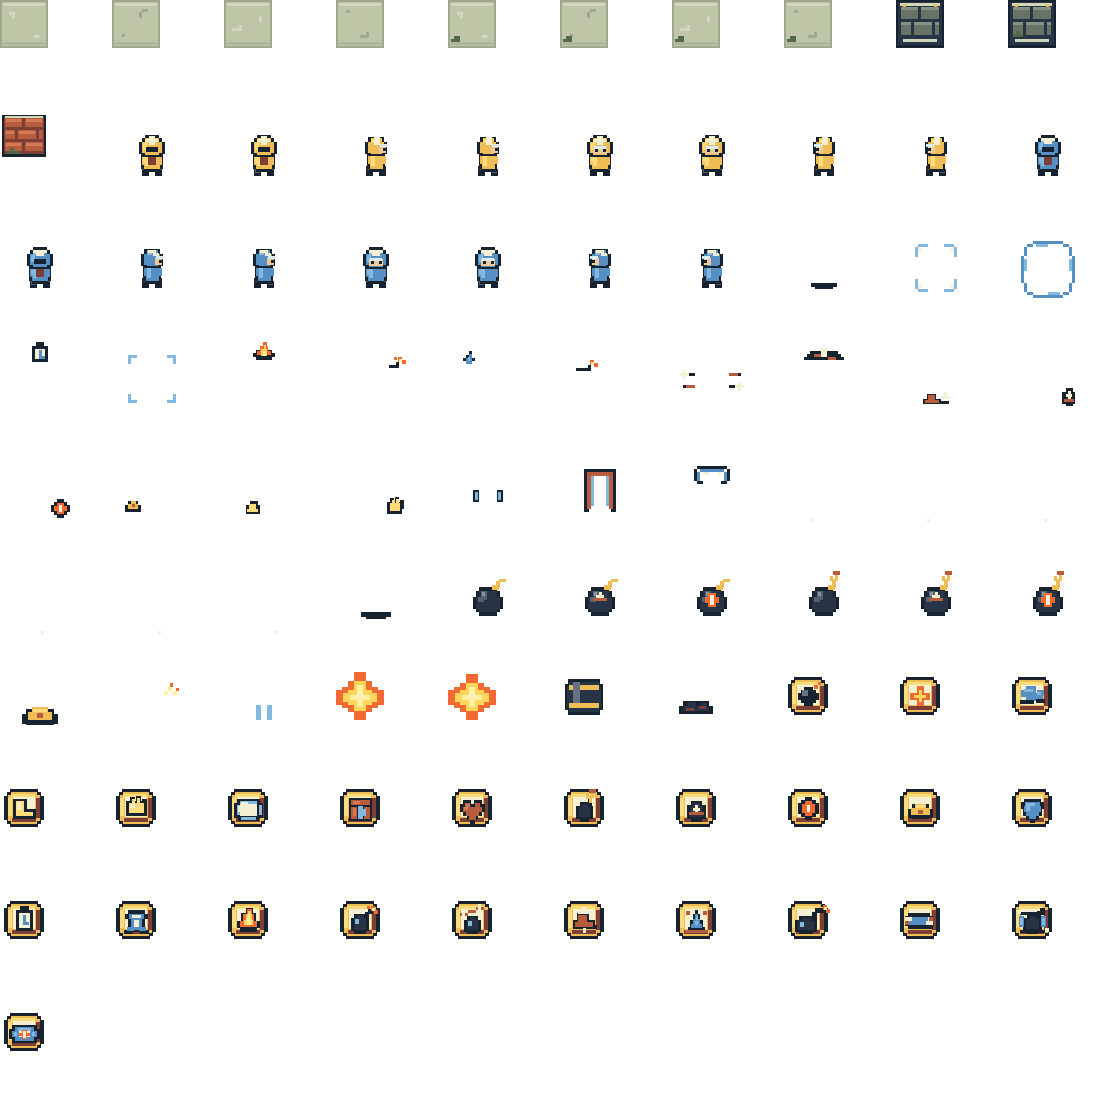
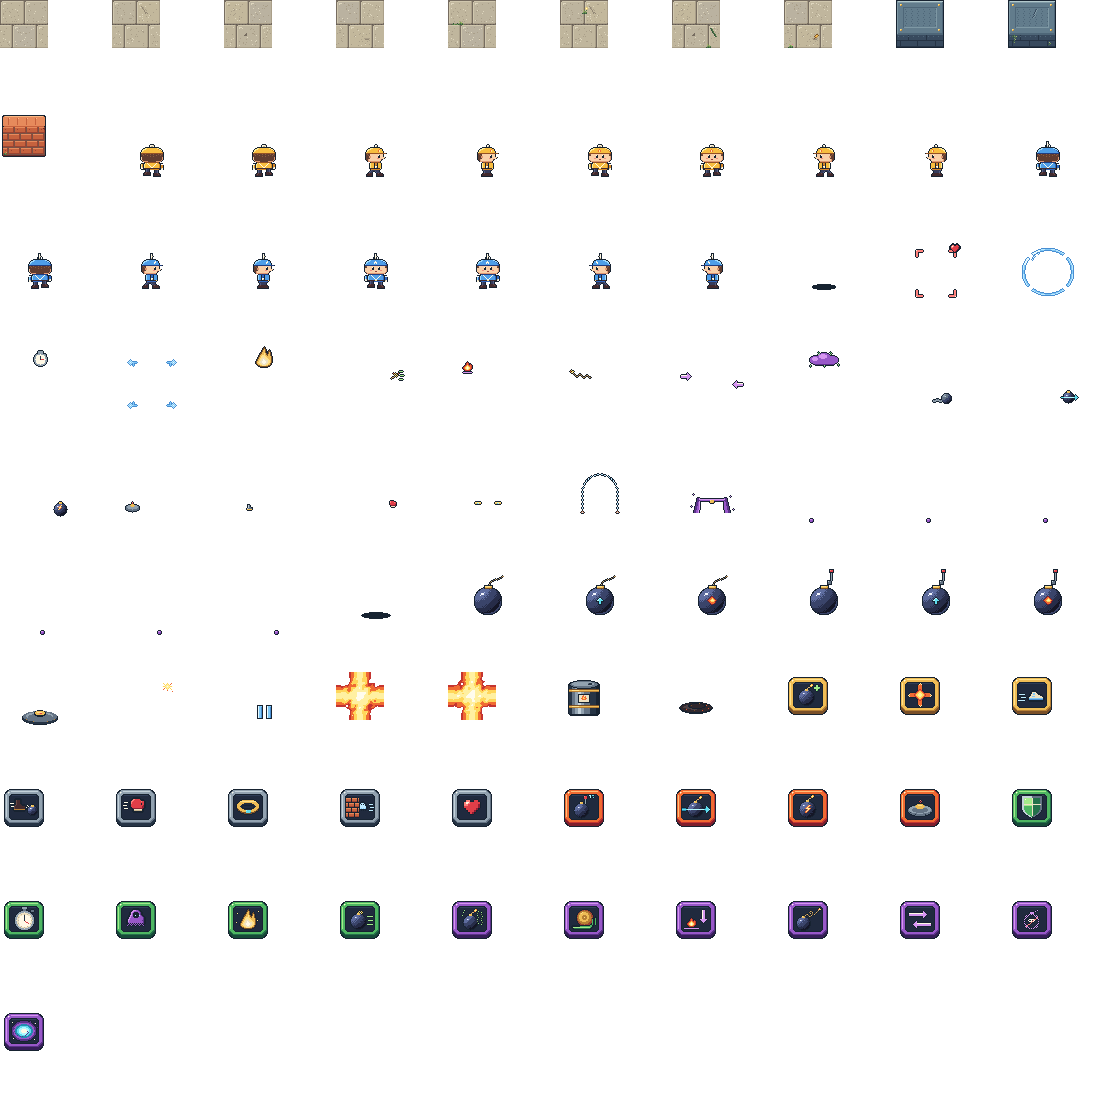
feat(art): adopt redrawn arena sprite sheet (#123)
Replace assets/art/arena-source.png with a full AI-generated redraw:
chibi-proportioned actors with pompom/feather caps and flame/star marks,
new terrain, bombs, gap-free flames, Oil, pickups and status cues. The
manifest, frame rectangles, pivots, foot anchors, binary alpha, Oil
colour anchors and texture budget are unchanged.

Atlas gameplay parity now packs the procedural baseline sheet through the
production atlas pipeline (createArenaAtlas) instead of the shipped PNG,
so artist redraws no longer break its pixel expectations; the
production-renderer lifecycle checks still load the bundled source.

Record the redraw's provenance and update the rendering, testing,
backlog and browser docs and the changelog.

diff --git a/web/src/game/arena/artAtlas/load.ts b/web/src/game/arena/artAtlas/load.ts
@@ -3,20 +3,25 @@ import sourceManifestJson from '../../../../../assets/art/arena-source.json'
 import { pixelCanvas, decodePng, packRuntimePixels } from './pixels'
 import { createAtlasRegions, type AtlasRegions } from './regions'
 import { buildRuntimeManifest } from './runtime'
-import type { ArtManifest } from './types'
+import type { ArtManifest, PixelBuffer } from './types'
 import { assertValidRuntimeManifest, assertValidSourceManifest } from './validate'
 
-const sourceManifest = sourceManifestJson as ArtManifest
+export const arenaSourceManifest = sourceManifestJson as ArtManifest
 const sourceUrl = new URL('../../../../../assets/art/arena-source.png', import.meta.url)
 
 export async function loadArenaAtlas(): Promise<AtlasRegions> {
-  assertValidSourceManifest(sourceManifest)
+  assertValidSourceManifest(arenaSourceManifest)
   const response = await fetch(sourceUrl)
   if (!response.ok) throw new Error(`Arena artwork failed to load (${response.status})`)
-  const sourcePixels = await decodePng(new Uint8Array(await response.arrayBuffer()), sourceManifest)
-  assertValidSourceManifest(sourceManifest, sourcePixels)
-  const runtimeManifest = buildRuntimeManifest(sourceManifest)
-  const runtimePixels = packRuntimePixels(sourcePixels, sourceManifest, runtimeManifest)
+  return createArenaAtlas(
+    await decodePng(new Uint8Array(await response.arrayBuffer()), arenaSourceManifest),
+  )
+}
+
+export function createArenaAtlas(sourcePixels: PixelBuffer): AtlasRegions {
+  assertValidSourceManifest(arenaSourceManifest, sourcePixels)
+  const runtimeManifest = buildRuntimeManifest(arenaSourceManifest)
+  const runtimePixels = packRuntimePixels(sourcePixels, arenaSourceManifest, runtimeManifest)
   assertValidRuntimeManifest(runtimeManifest, runtimePixels)
   const source = new CanvasSource({
     resource: pixelCanvas(runtimePixels),

diff --git a/web/renderer-diagnostics/atlas-gameplay.ts b/web/renderer-diagnostics/atlas-gameplay.ts
@@ -2,13 +2,14 @@ import '../src/game/arena/pixiCompatibility'
 import { Application, Container, Sprite } from 'pixi.js'
 import type { ActorDrawing } from '../src/game/arena/actorArt'
 import { createAtlasArtwork } from '../src/game/arena/artAtlas/artwork'
-import { loadArenaAtlas } from '../src/game/arena/artAtlas/load'
+import { arenaSourceManifest, createArenaAtlas } from '../src/game/arena/artAtlas/load'
 import type { ArenaArtwork } from '../src/game/arena/artwork'
 import { GROUND, TILE } from '../src/game/arena/drawing'
 import { graphicsArtwork } from '../src/game/arena/graphicsArtwork'
 import { createArenaRenderer, type ArenaRenderer } from '../src/game/arena/renderer'
 import { ArenaScene } from '../src/game/arena/scene'
 import type { SnapshotMessage } from '../src/game/arena/types'
+import { renderBaselineSource } from './art-atlas-render'
 import { diagnosticSnapshot } from './snapshot'
 
 type Pixels = { pixels: Uint8Array | Uint8ClampedArray; width: number; height: number }
@@ -191,7 +192,9 @@ async function run(): Promise<AtlasGameplayResult> {
     autoStart: false, resolution, powerPreference: 'low-power',
   })
   document.body.appendChild(app.canvas)
-  const regions = await loadArenaAtlas()
+  // Parity packs the procedural baseline, so it checks the atlas pipeline independently of the
+  // adopted artist pixels; the renderer lifecycle below still loads the bundled source.
+  const regions = createArenaAtlas(await renderBaselineSource(arenaSourceManifest))
   const atlas = new ArenaScene(resolution, createAtlasArtwork(regions))
   const graphics = new ArenaScene(resolution, normalizedGraphicsArtwork())
   const historicalGraphics = new ArenaScene(resolution, graphicsArtwork)

diff --git a/web/src/game/arena/artAtlas/load.test.ts b/web/src/game/arena/artAtlas/load.test.ts
@@ -30,7 +30,7 @@ vi.mock('./validate', () => ({
   assertValidSourceManifest: mocks.assertValidSourceManifest,
 }))
 
-import { loadArenaAtlas } from './load'
+import { createArenaAtlas, loadArenaAtlas } from './load'
 
 const sourcePixels = { width: 1120, height: 1120, data: new Uint8Array() }
 const runtimePixels = { width: 2040, height: 320, data: new Uint8Array() }
@@ -74,5 +74,15 @@ describe('arena atlas loading', () => {
     await expect(loadArenaAtlas()).resolves.toBeDefined()
     expect(mocks.sources).toHaveLength(2)
     expect(mocks.sources[1]?.destroyed).toBe(false)
+  })
+
+  it('packs supplied source pixels without fetching the bundled artwork', () => {
+    const regions = createArenaAtlas(sourcePixels)
+
+    expect(regions).toEqual({ source: mocks.sources[0] })
+    expect(fetch).not.toHaveBeenCalled()
+    expect(mocks.decodePng).not.toHaveBeenCalled()
+    expect(mocks.assertValidSourceManifest).toHaveBeenCalledWith(expect.anything(), sourcePixels)
+    expect(mocks.packRuntimePixels.mock.calls[0]?.[0]).toBe(sourcePixels)
   })
 })

diff --git a/docs/game/backlog.md b/docs/game/backlog.md
@@ -5,7 +5,8 @@ completes **all 22 requested item types**, including Oil Barrel. Full checks, sc
 Compose/Kubernetes acceptance, publication and localhost promotion are complete. ART-ATLAS is
 shipped: [v0.3.48](https://github.com/liveweird/grenadiers/releases/tag/v0.3.48) publishes
 the artist handoff/export/preview. Published [v0.3.49](https://github.com/liveweird/grenadiers/releases/tag/v0.3.49)
-adopts the atlas in gameplay and is promoted locally. Artist redraws remain separate ART work.
+adopts the atlas in gameplay and is promoted locally. The unreleased v0.3.53 sheet is a full
+AI-generated redraw ([provenance](../../assets/art/README.md#provenance)).
 
 [v0.3.43](https://github.com/liveweird/grenadiers/releases/tag/v0.3.43) publishes Wall Pass as the
 eighteenth of 22 requested item types. Published source `c086f719ea470b9fe24963adef84b5e3bdf3e17a`,
@@ -221,8 +222,8 @@ The entire expanded-item batch shipped in v0.3.47. ART-ATLAS is split into two b
 - **v0.3.49 (published):** adopt the reviewed runtime atlas in gameplay, preserving terrain cache behavior,
   animation timing, visibility, collision geometry, ownership and current rendering budgets.
 
-The existing code-generated PixiJS art remains the baseline. New artist redraws and new animation
-production follow review of this complete inventory and representative arena proof.
+The code-generated PixiJS art remains the template and parity baseline. The unreleased v0.3.53
+redraw replaces the adopted sheet; new animation production follows review of the inventory.
 
 - Export the current drawings into a labelled visual inventory, including terrain variants,
   directional player frames, bombs, connected flames, pickups and status overlays. Reserve
@@ -243,8 +244,8 @@ production follow review of this complete inventory and representative arena pro
   geometry, authoritative visibility, hazard readability, player distinctions and EN/PL UI.
 
 Published v0.3.48 implements the template/export/preview portion above. Gameplay integration shipped in v0.3.49;
-artist redraws remain open. The faithful baseline retains a known two-pixel vertical gap in
-flame frame 1; the guide calls it out explicitly rather than claiming seamless replacement art.
+the unreleased v0.3.53 redraw replaces the adopted sheet. The procedural template still retains a
+known two-pixel vertical gap in flame frame 1; the redrawn flame frames are gap-free.
 
 ## EFFECTS: inventory and status foundations
 
@@ -334,4 +335,4 @@ including same-image Compose/Kubernetes acceptance. Bots, mobs and larger matche
 separate tracks; their future interactions must be specified without making them prerequisites.
 
 The expanded-item activation batch and its release gates are complete in v0.3.47. ART-ATLAS
-is delivered by the published v0.3.48/v0.3.49 releases; artist redraws follow sample review.
+is delivered by the published v0.3.48/v0.3.49 releases; the v0.3.53 redraw is unreleased.

diff --git a/assets/art/README.md b/assets/art/README.md
@@ -75,9 +75,9 @@ target after review.
   -localBounds.y)`. All 16 directional actor poses retain the shared `(40, 65)` foot anchor.
 - Keep IDs path-safe and stable. The exporter rejects missing, duplicate, unexpected or path-like
   IDs, changed required animations, invalid dimensions and texture-budget overflow.
-- The existing baseline `effect.flame.1` has a vertical two-pixel gap. The template, adjacent-flame
-  proof and runtime export preserve it faithfully; v0.3.48 does not claim that baseline frame is
-  already seamless. An artist may correct it in the canonical editable PNG.
+- Flame frames must reach all four edges so adjacent rays join. The procedural template's
+  `effect.flame.1` keeps its historical vertical two-pixel gap; the adopted v0.3.53 source fills a
+  continuous 22-pixel band on every edge of both frames.
 
 Use the standalone `art-atlas.html` renderer diagnostic to load a source PNG and manifest, inspect
 all labelled drawings, and see the representative arena rebuilt from actual Pixi atlas regions.
@@ -86,9 +86,16 @@ and adjacent flames. It is not linked from the gameplay or product flow.
 
 ## Provenance
 
-The v0.3.48 baseline is rendered at resolution 1 from Grenadiers' existing code-generated Pixi
-factories in `web/src/game/arena/`. No AI-generated art, external artwork, external font download
-or new visual style is introduced by this handoff. The generated guide and preview files derive
-from those same repository sources. Record the author, tool and license/provenance of future
-artist revisions alongside the adopted source; repository licensing remains authoritative for
-distribution.
+The adopted v0.3.53 source is a full redraw (terrain, actors, bombs, flames, Oil, pickups and
+status cues) and is AI-generated: Claude (Anthropic, via Claude Code) wrote a procedural
+Python/Pillow script that painted every frame, directed and reviewed by the repository owner.
+It keeps the v0.3.48 manifest unchanged, every frame rectangle, pivot and anchor, binary alpha and
+the Oil colour anchors. It contains no external artwork, franchise sprites or downloaded fonts;
+repository licensing applies. The generating script is not committed; edit the PNG directly.
+
+The v0.3.48 baseline, still produced by `art:template`, is rendered at resolution 1 from
+Grenadiers' existing code-generated Pixi factories in `web/src/game/arena/`; it introduced no
+AI-generated art, external artwork, external font download or new visual style. The generated
+guide and preview files derive from those same repository sources. Record the author, tool and
+license/provenance of future artist revisions alongside the adopted source; repository licensing
+remains authoritative for distribution.

diff --git a/docs/game/art-atlas.md b/docs/game/art-atlas.md
@@ -31,20 +31,26 @@ reuses that source and refreshes the terrain cache. Failed initialization follow
 localized renderer-error flow rather than substituting different artwork.
 
 Procedural drawings remain available for template extraction and reference comparisons.
-This release adopts the baseline artwork, with one explicit compositing change: status pulses
+v0.3.53 replaces the adopted source with a redrawn, AI-generated sheet (chibi-proportioned
+actors, new terrain, bombs, flames, pickups and cues; see the
+[provenance](../../assets/art/README.md#provenance)). The manifest, frame rectangles, pivots,
+foot anchors and texture budget are unchanged, so gameplay positions and collisions do not move.
+v0.3.49 adopted the baseline artwork, with one explicit compositing change: status pulses
 fade each completed icon once. The old procedural renderer faded every overlapping paint
 stroke separately, exposing underlying colors during a pulse. A flat artist PNG retains the
 finished icon rather than those hidden strokes. Pulse timing and status visibility stay shared;
-this normalization affects only those decorative overlap pixels. The documented flame-frame
-gap and future artist redesign remain separate visual changes.
+this normalization affects only those decorative overlap pixels.
 
 ## Verification
 
 Run `scripts/gates.sh web`, `scripts/gates.sh e2e`, `scripts/gates.sh art-atlas` and
 `scripts/gates.sh atlas-gameplay`. The last command builds the diagnostics target and runs real
-Pixi/WebGL comparisons, including a flattened-opaque reference for pulsing icons and separately
-reported differences from the historical per-stroke reference. Keep the required Playwright Chromium installation for browser checks;
-`scripts/gates.sh all` retains its existing source/static scope.
+Pixi/WebGL comparisons. Its parity scenes pack the procedural baseline sheet through the same
+atlas pipeline, so they verify the renderer independently of the adopted artist pixels; its
+production-renderer lifecycle checks load the bundled source. Comparisons include a
+flattened-opaque reference for pulsing icons and separately reported differences from the
+historical per-stroke reference. Keep the required Playwright Chromium installation for browser
+checks; `scripts/gates.sh all` retains its existing source/static scope.
 
 Before release, also exercise the production image through two-player gameplay and privacy
 scenarios, desktop/320px reduced-motion captures, context restoration and measured rendering

diff --git a/docs/testing.md b/docs/testing.md
@@ -60,10 +60,12 @@ invalid sources, concurrent operations, context restoration, one live preview, t
 EN/PL errors and desktop/320px reduced-motion layouts. Core unit tests cover frame inventory,
 metadata, every extrusion edge/corner, padding, gutters, transparency and texture disposal.
 Generated browser proofs live under ignored `e2e/.playwright/art-atlas-test-results/`. The
-[artist handoff](../assets/art/README.md) documents template/export commands. The dedicated `scripts/gates.sh atlas-gameplay` checks the v0.3.49 gameplay backend against
-procedural reference pixels and real WebGL lifecycle behavior. It uses the same fresh diagnostics
-build and stores proofs in `e2e/.playwright/atlas-gameplay-test-results/`. See the
-[rendering guide](game/art-atlas.md). Artist redraws remain separate from renderer adoption.
+[artist handoff](../assets/art/README.md) documents template/export commands. The dedicated
+`scripts/gates.sh atlas-gameplay` checks the gameplay atlas backend against procedural reference
+pixels, by packing the procedural baseline sheet rather than the adopted artist source, and real
+WebGL lifecycle behavior with the bundled source. It uses the same fresh diagnostics build and
+stores proofs in `e2e/.playwright/atlas-gameplay-test-results/`. See the
+[rendering guide](game/art-atlas.md). Artist redraws therefore change no parity expectation.
 
 ## Rust
 

diff --git a/e2e/scenarios/atlas-gameplay.md b/e2e/scenarios/atlas-gameplay.md
@@ -2,10 +2,11 @@
 
 ## Scenario: atlas gameplay matches procedural pixels and retains renderer resources through lifecycle changes
 
-The isolated actual-WebGL fixture compares production atlas scene pixels with the procedural
-reference at device pixel ratios one and two. It covers fractional interpolation, the actor,
+The isolated actual-WebGL fixture packs the procedural baseline sheet through the production atlas
+pipeline and compares those scene pixels with the procedural reference at device pixel ratios one
+and two, independently of the adopted artist source. It covers fractional interpolation, the actor,
 bomb, Flame and Oil animation phases, reduced motion, a result with a hidden actor, changed
-terrain, reset, and context restoration. The same run initializes
-the production renderer, retains one canvas and atlas across suspend/resume and reduced-motion
+terrain, reset, and context restoration. The same run initializes the production renderer with
+the bundled artist source, retains one canvas and atlas across suspend/resume and reduced-motion
 changes, restores its context, measures cold startup and a bounded retained-frame sample, and
 releases each comparison and production texture owner on final destruction.

diff --git a/docs/game/pixel-art.md b/docs/game/pixel-art.md
@@ -49,6 +49,10 @@ renderer during mounted room/reconnect transitions, suspending its ticker and cl
 artwork while waiting. A new baseline is painted before the canvas becomes visible again.
 Actual component unmount still releases the renderer and WebGL resources.
 
+Since v0.3.49 gameplay draws these from the [artist sheet](../../assets/art/README.md); the
+unreleased v0.3.53 redraw gives players chibi proportions, a pompom or feather cap and a flame or
+star mark. The procedural sources below still produce the template and parity reference.
+
 Sources: `web/src/game/arena/terrainArt.ts`, `actorArt.ts`, `entityArt.ts`, `palette.ts` and
 `pixel.ts`. All patterns were authored for this repository; no franchise sprites, external
 texture packs, downloaded fonts or new rendering dependency are included.

diff --git a/docs/game/implementation-plan.md b/docs/game/implementation-plan.md
@@ -41,7 +41,8 @@ published; Punch v0.3.45 is also published and promoted locally on the accepted 
 Bracelet v0.3.46 is published and promoted locally: 21 of 22 requested item types are shipped.
 Oil Barrel v0.3.47 is published and promoted locally, completing all 22 requested item types.
 ART-ATLAS v0.3.48 handoff/export/preview and v0.3.49 gameplay adoption are published and
-promoted locally. Artist redraws follow sample review; the sprite-sheet pipeline is complete.
+promoted locally; the sprite-sheet pipeline is complete. The unreleased v0.3.53 sheet is a full
+AI-generated redraw.
 
 New playtest requests and expansion work are tracked in the [gameplay and presentation
 backlog](backlog.md): forgiving turns first, shared gameplay settings, detailed retro pixel art,

diff --git a/README.md b/README.md
@@ -11,7 +11,8 @@ The [artist sprite-sheet handoff](assets/art/README.md) includes editable PNG/JS
 guides, validated runtime export and a separate Pixi preview. Download the artist bundle from
 [the release](https://github.com/liveweird/grenadiers/releases/tag/v0.3.48).
 Gameplay now uses those canonical inputs; see the [renderer guide](docs/game/art-atlas.md).
-The artist redesign remains separate from the completed sprite-sheet pipeline.
+The unreleased v0.3.53 sheet is a full, AI-generated redraw; see its
+[provenance](assets/art/README.md#provenance).
 
 Artists can use `npm --prefix e2e run art:template -- --out target/art-template` and
 `scripts/gates.sh art-atlas` after installing the documented Playwright Chromium prerequisite.

diff --git a/docs/game/browser.md b/docs/game/browser.md
@@ -38,7 +38,8 @@ carry no position or clock authority.
 Pixi retains terrain, block, bomb, flame, and actor layers. Public actor positions interpolate
 over the 50 ms publication interval without extrapolation. Terminal states snap to the
 accepted final position; reduced motion disables interpolation and pulsing effects. Player
-colors, helmet shapes, and HTML seat names distinguish the two players. The canvas itself
+colors, cap shapes and marks (pompom/flame or feather/star), and HTML seat names distinguish the
+two players. The canvas itself
 is decorative to assistive technology; room controls, countdown/timer, and result remain HTML.
 
 The canvas resizes to the fixed 15:13 arena aspect ratio, with device pixel ratio capped at
